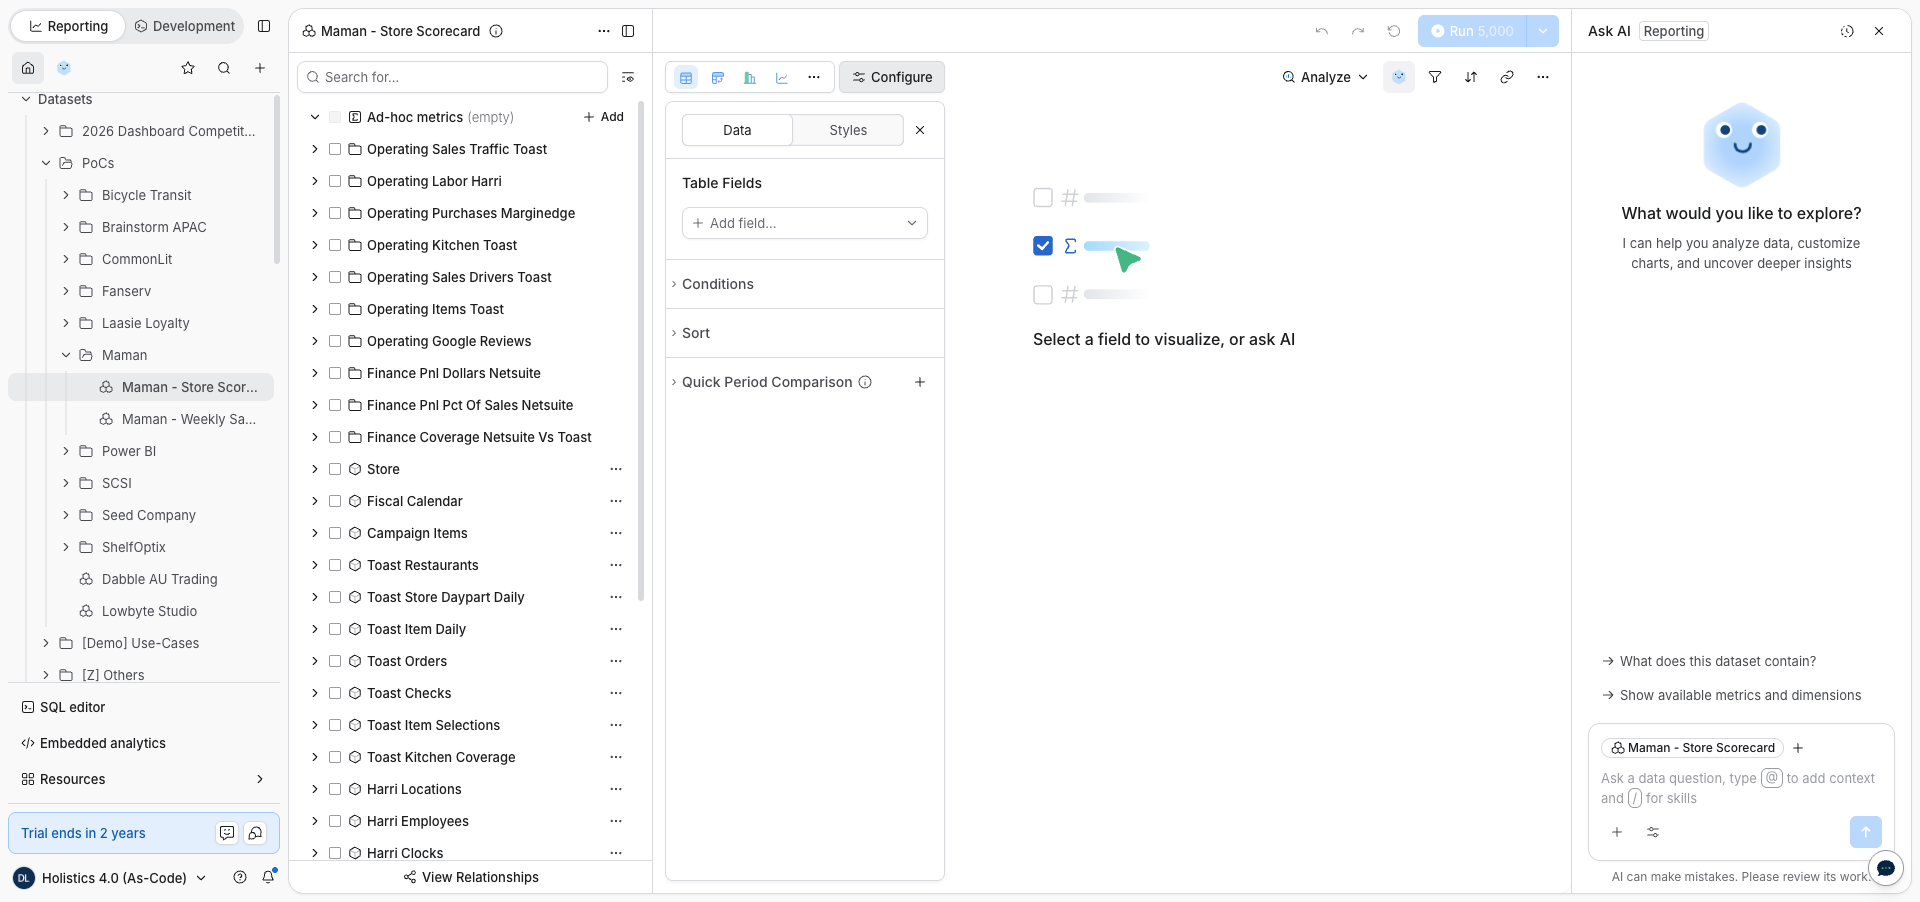
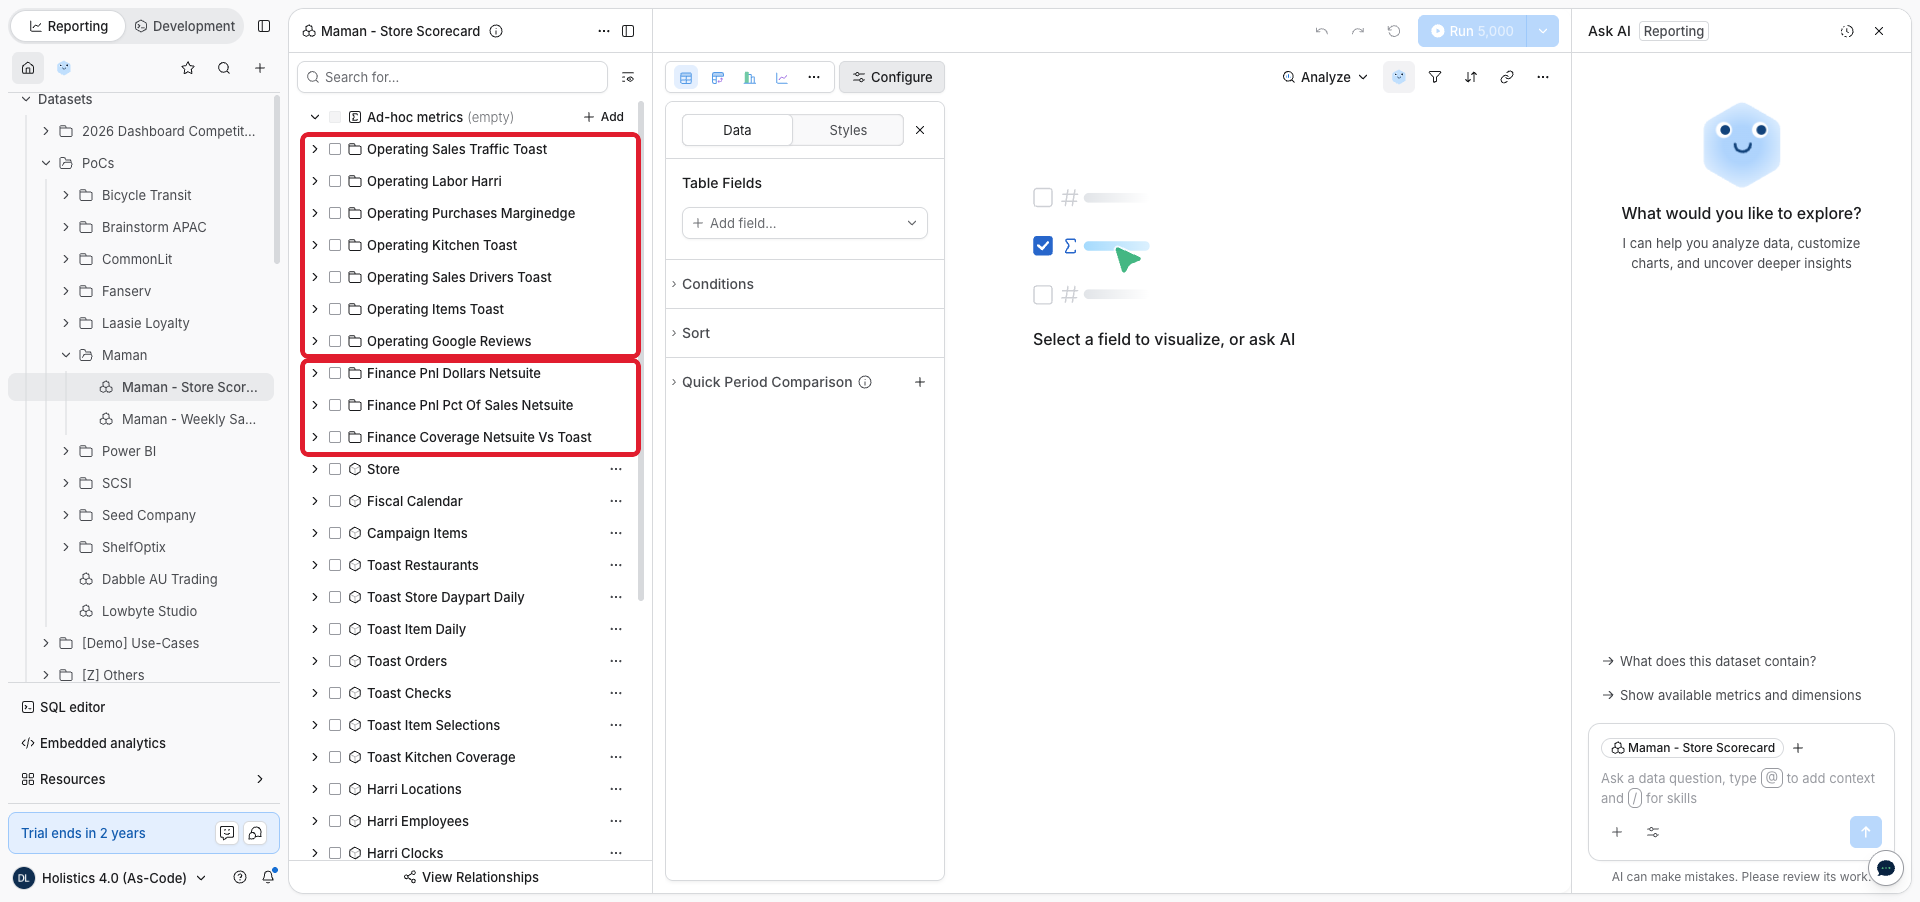
docs(maman): mark metric folders in demo guide and drop the Nam title
Rename the guide to README.md so GitHub shows it on the folder page, and
outline the Operating and Finance folders in the dataset screenshot.

Changed region(s): [[0.1562, 0.4967, 0.3438, 0.5277], [0.1562, 0.3725, 0.3438, 0.4035], [0.1562, 0.1242, 0.3438, 0.1552]]

diff --git a/clients/maman/docs/demo-guide/README.md b/clients/maman/docs/demo-guide/README.md
@@ -1,4 +1,4 @@
-# Maman demo guide for Nam
+# Maman demo guide
 
 How to walk Maman through the two data apps, the dataset and Holistics AI. Each step has a screenshot of what you should see.
 
@@ -111,7 +111,7 @@ Wait until the page has finished loading before you click. While Period to date 
 
 Open [Maman - Store Scorecard](https://demo4.holistics.io/datasets/80184) in a second tab.
 
-The field list on the left shows metric folders first, then the raw tables:
+The field list on the left shows metric folders first (red boxes), then the raw tables:
 
 - **Operating folders:** Operating Sales Traffic Toast, Operating Labor Harri, Operating Purchases Marginedge, Operating Kitchen Toast, Operating Sales Drivers Toast, Operating Items Toast, Operating Google Reviews
 - **Finance folders:** Finance Pnl Dollars Netsuite, Finance Pnl Pct Of Sales Netsuite, Finance Coverage Netsuite Vs Toast
